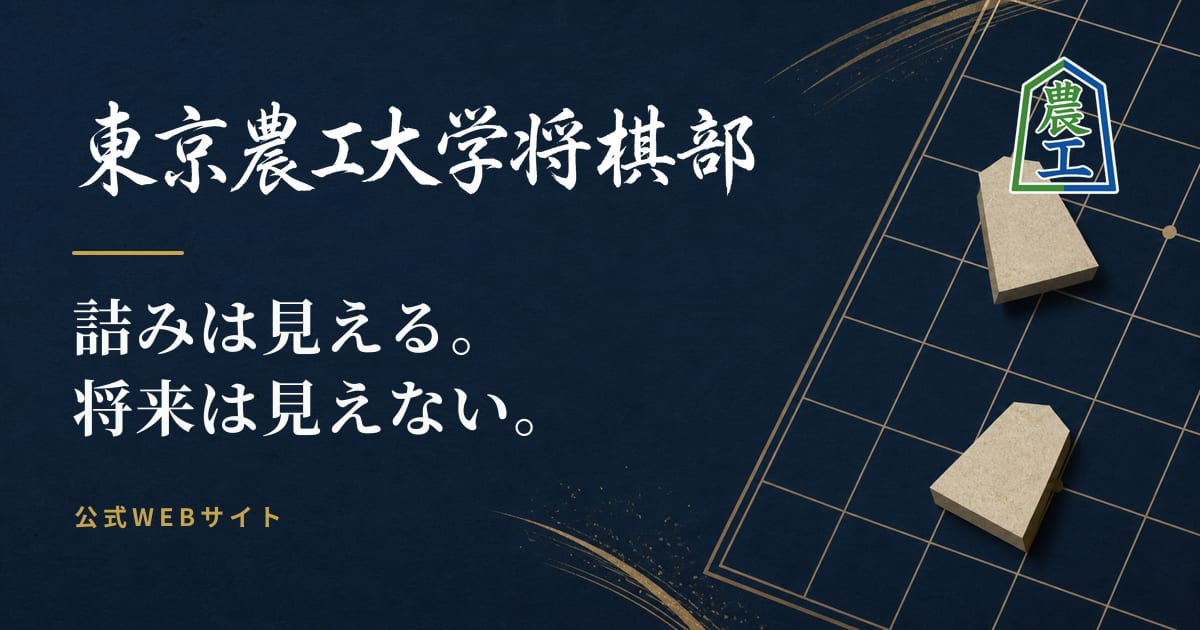
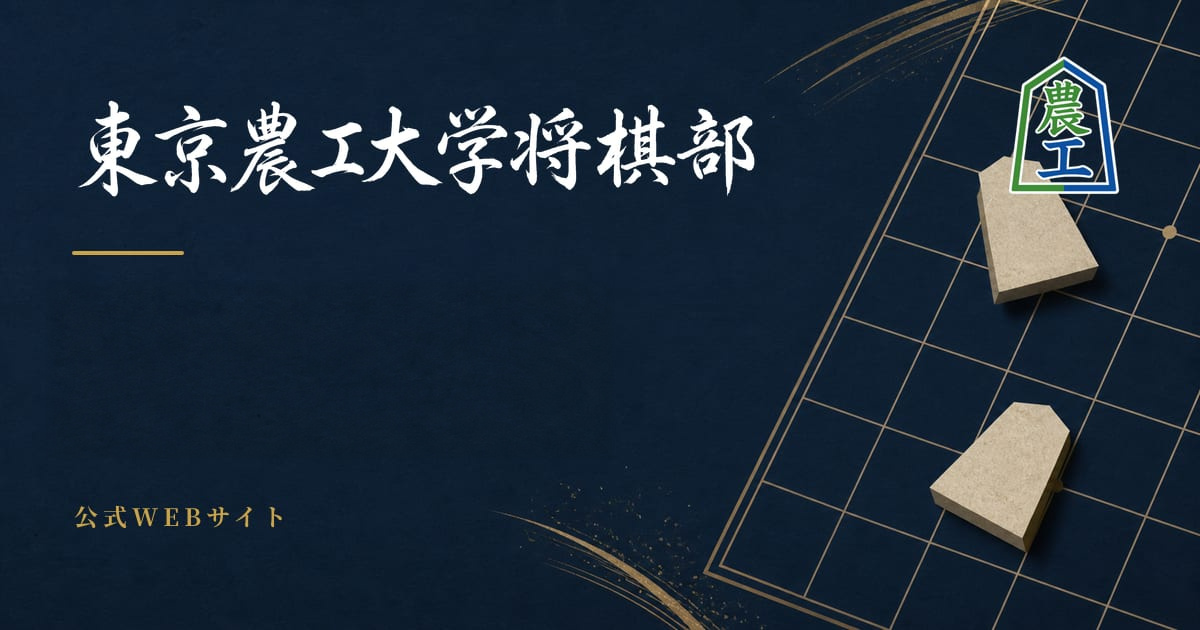
Fix entry visual baselines and preserve approved OG image

diff --git a/index.html b/index.html
@@ -15,13 +15,13 @@
   <meta property="og:image" content="https://tuatshogi.github.io/og-image.jpg">
   <meta property="og:image:width" content="1200">
   <meta property="og:image:height" content="630">
-  <meta property="og:image:alt" content="藍色の将棋盤と駒を背景に、東京農工大学将棋部とキャッチコピーを記した画像">
+  <meta property="og:image:alt" content="藍色の将棋盤と駒を背景に、東京農工大学将棋部の名前を記した画像">
   <meta property="og:locale" content="ja_JP">
   <meta name="twitter:card" content="summary_large_image">
   <meta name="twitter:title" content="東京農工大学将棋部｜活動日・見学・大会実績">
   <meta name="twitter:description" content="東京農工大学将棋部の公式サイトです。小金井キャンパスでの活動、初心者向けの入部・見学案内、大会結果、部室の場所を掲載しています。">
   <meta name="twitter:image" content="https://tuatshogi.github.io/og-image.jpg">
-  <meta name="twitter:image:alt" content="藍色の将棋盤と駒を背景に、東京農工大学将棋部とキャッチコピーを記した画像">
+  <meta name="twitter:image:alt" content="藍色の将棋盤と駒を背景に、東京農工大学将棋部の名前を記した画像">
   <meta name="google-site-verification" content="Huue_-aFmgh6HdhPvxhdEA5aeZYsDr5MvZvjtjCK0N4">
   <script type="application/ld+json">{"@context":"https://schema.org","@type":"Organization","name":"東京農工大学将棋部","alternateName":"農工大将棋部","description":"東京農工大学将棋部の公式サイトです。小金井キャンパスでの活動、初心者向けの入部・見学案内、大会結果、部室の場所を掲載しています。","url":"https://tuatshogi.github.io/","logo":"https://tuatshogi.github.io/organization-logo.png","email":"tuatshogi@gmail.com","sameAs":["https://x.com/tuatshogiclub"],"parentOrganization":{"@type":"CollegeOrUniversity","name":"東京農工大学","url":"https://www.tuat.ac.jp/"}}</script>
   <link rel="preload" href="./assets/noto-sans-jp-subset-CHjNgE5t.woff2" as="font" type="font/woff2" crossorigin>

diff --git a/record.html b/record.html
@@ -15,13 +15,13 @@
   <meta property="og:image" content="https://tuatshogi.github.io/og-image.jpg">
   <meta property="og:image:width" content="1200">
   <meta property="og:image:height" content="630">
-  <meta property="og:image:alt" content="藍色の将棋盤と駒を背景に、東京農工大学将棋部とキャッチコピーを記した画像">
+  <meta property="og:image:alt" content="藍色の将棋盤と駒を背景に、東京農工大学将棋部の名前を記した画像">
   <meta property="og:locale" content="ja_JP">
   <meta name="twitter:card" content="summary_large_image">
   <meta name="twitter:title" content="大会結果・戦績｜東京農工大学将棋部">
   <meta name="twitter:description" content="東京農工大学将棋部の大会結果と戦績を年度別に掲載しています。関東大学将棋連盟の春季・秋季団体戦における順位、勝敗、昇級記録を確認できます。">
   <meta name="twitter:image" content="https://tuatshogi.github.io/og-image.jpg">
-  <meta name="twitter:image:alt" content="藍色の将棋盤と駒を背景に、東京農工大学将棋部とキャッチコピーを記した画像">
+  <meta name="twitter:image:alt" content="藍色の将棋盤と駒を背景に、東京農工大学将棋部の名前を記した画像">
   <link rel="preload" href="./assets/noto-sans-jp-subset-CHjNgE5t.woff2" as="font" type="font/woff2" crossorigin>
   <link rel="preload" href="./assets/shippori-mincho-700-subset-Ds_XH7SG.woff2" as="font" type="font/woff2" crossorigin>
   <link rel="icon" href="./favicon.ico" type="image/x-icon">

diff --git a/introduce.html b/introduce.html
@@ -15,13 +15,13 @@
   <meta property="og:image" content="https://tuatshogi.github.io/og-image.jpg">
   <meta property="og:image:width" content="1200">
   <meta property="og:image:height" content="630">
-  <meta property="og:image:alt" content="藍色の将棋盤と駒を背景に、東京農工大学将棋部とキャッチコピーを記した画像">
+  <meta property="og:image:alt" content="藍色の将棋盤と駒を背景に、東京農工大学将棋部の名前を記した画像">
   <meta property="og:locale" content="ja_JP">
   <meta name="twitter:card" content="summary_large_image">
   <meta name="twitter:title" content="活動内容・活動日｜東京農工大学将棋部">
   <meta name="twitter:description" content="東京農工大学将棋部の活動を紹介します。毎週の部室での対局、棋譜検討、部内戦、大学間交流、大会参加などの様子を写真付きで掲載しています。">
   <meta name="twitter:image" content="https://tuatshogi.github.io/og-image.jpg">
-  <meta name="twitter:image:alt" content="藍色の将棋盤と駒を背景に、東京農工大学将棋部とキャッチコピーを記した画像">
+  <meta name="twitter:image:alt" content="藍色の将棋盤と駒を背景に、東京農工大学将棋部の名前を記した画像">
   <link rel="preload" href="./assets/noto-sans-jp-subset-CHjNgE5t.woff2" as="font" type="font/woff2" crossorigin>
   <link rel="preload" href="./assets/shippori-mincho-700-subset-Ds_XH7SG.woff2" as="font" type="font/woff2" crossorigin>
   <link rel="icon" href="./favicon.ico" type="image/x-icon">

diff --git a/entry.html b/entry.html
@@ -15,13 +15,13 @@
   <meta property="og:image" content="https://tuatshogi.github.io/og-image.jpg">
   <meta property="og:image:width" content="1200">
   <meta property="og:image:height" content="630">
-  <meta property="og:image:alt" content="藍色の将棋盤と駒を背景に、東京農工大学将棋部とキャッチコピーを記した画像">
+  <meta property="og:image:alt" content="藍色の将棋盤と駒を背景に、東京農工大学将棋部の名前を記した画像">
   <meta property="og:locale" content="ja_JP">
   <meta name="twitter:card" content="summary_large_image">
   <meta name="twitter:title" content="入部・見学案内｜東京農工大学将棋部">
   <meta name="twitter:description" content="東京農工大学将棋部の入部・見学案内です。活動場所、活動日、部室への行き方、部費、見学の連絡方法をご案内します。初心者も歓迎しています。">
   <meta name="twitter:image" content="https://tuatshogi.github.io/og-image.jpg">
-  <meta name="twitter:image:alt" content="藍色の将棋盤と駒を背景に、東京農工大学将棋部とキャッチコピーを記した画像">
+  <meta name="twitter:image:alt" content="藍色の将棋盤と駒を背景に、東京農工大学将棋部の名前を記した画像">
   <link rel="preload" href="./assets/noto-sans-jp-subset-CHjNgE5t.woff2" as="font" type="font/woff2" crossorigin>
   <link rel="preload" href="./assets/shippori-mincho-700-subset-Ds_XH7SG.woff2" as="font" type="font/woff2" crossorigin>
   <link rel="icon" href="./favicon.ico" type="image/x-icon">

diff --git a/news.html b/news.html
@@ -15,13 +15,13 @@
   <meta property="og:image" content="https://tuatshogi.github.io/og-image.jpg">
   <meta property="og:image:width" content="1200">
   <meta property="og:image:height" content="630">
-  <meta property="og:image:alt" content="藍色の将棋盤と駒を背景に、東京農工大学将棋部とキャッチコピーを記した画像">
+  <meta property="og:image:alt" content="藍色の将棋盤と駒を背景に、東京農工大学将棋部の名前を記した画像">
   <meta property="og:locale" content="ja_JP">
   <meta name="twitter:card" content="summary_large_image">
   <meta name="twitter:title" content="お知らせ｜東京農工大学将棋部">
   <meta name="twitter:description" content="東京農工大学将棋部からのお知らせを掲載しています。活動や大会に関する最新情報をご覧いただけます。">
   <meta name="twitter:image" content="https://tuatshogi.github.io/og-image.jpg">
-  <meta name="twitter:image:alt" content="藍色の将棋盤と駒を背景に、東京農工大学将棋部とキャッチコピーを記した画像">
+  <meta name="twitter:image:alt" content="藍色の将棋盤と駒を背景に、東京農工大学将棋部の名前を記した画像">
   <link rel="preload" href="./assets/noto-sans-jp-subset-CHjNgE5t.woff2" as="font" type="font/woff2" crossorigin>
   <link rel="preload" href="./assets/shippori-mincho-700-subset-Ds_XH7SG.woff2" as="font" type="font/woff2" crossorigin>
   <link rel="icon" href="./favicon.ico" type="image/x-icon">

diff --git a/src/data/pageDefinitions.js b/src/data/pageDefinitions.js
@@ -80,7 +80,7 @@ export const ogImage = {
   url: `${siteOrigin}/og-image.jpg`,
   width: 1200,
   height: 630,
-  alt: "藍色の将棋盤と駒を背景に、東京農工大学将棋部とキャッチコピーを記した画像",
+  alt: "藍色の将棋盤と駒を背景に、東京農工大学将棋部の名前を記した画像",
 };
 
 export const organizationStructuredData = {
